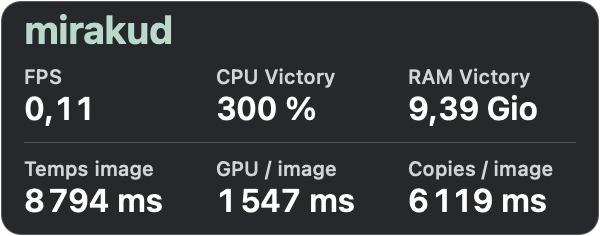
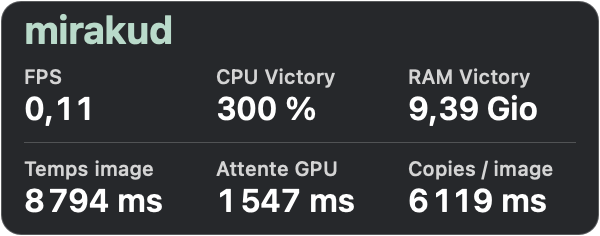
Préciser le temps d’attente de la clôture GPU dans l’encart

Changed region(s): [[0.36, 0.6822, 0.57, 0.7712]]

diff --git a/tools/macos/victory_perf_hud.swift b/tools/macos/victory_perf_hud.swift
@@ -69,7 +69,7 @@ private final class MetricsView: NSView {
         }
         setAccessibilityElement(true)
         setAccessibilityRole(.group)
-        setAccessibilityLabel("mirakud, \(next.fps) FPS, CPU Victory \(next.cpu), RAM Victory \(next.ram), temps image \(next.frame), GPU par image \(next.gpu), copies par image \(next.copies)")
+        setAccessibilityLabel("mirakud, \(next.fps) FPS, CPU Victory \(next.cpu), RAM Victory \(next.ram), temps image \(next.frame), attente GPU par image \(next.gpu), copies par image \(next.copies)")
     }
 
     override func draw(_ dirtyRect: NSRect) {
@@ -98,7 +98,7 @@ private final class MetricsView: NSView {
         metric("CPU Victory", values.cpu, x: 108, y: 32)
         metric("RAM Victory", values.ram, x: 204, y: 32)
         metric("Temps image", values.frame, x: 12, y: 78)
-        metric("GPU / image", values.gpu, x: 108, y: 78)
+        metric("Attente GPU", values.gpu, x: 108, y: 78)
         metric("Copies / image", values.copies, x: 204, y: 78)
     }
 }
@@ -254,7 +254,7 @@ private func selfTest(output: URL) throws {
     view.cacheDisplay(in: view.bounds, to: bitmap)
     guard let png = bitmap.representation(using: .png, properties: [:]) else { throw CocoaError(.fileWriteUnknown) }
     try png.write(to: output, options: .atomic)
-    print("mirakud | FPS \(values.fps) | CPU Victory \(values.cpu) | RAM Victory \(values.ram) | Image \(values.frame) | GPU \(values.gpu) | Copies \(values.copies) | \(bitmap.pixelsWide) × \(bitmap.pixelsHigh)")
+    print("mirakud | FPS \(values.fps) | CPU Victory \(values.cpu) | RAM Victory \(values.ram) | Image \(values.frame) | Attente GPU \(values.gpu) | Copies \(values.copies) | \(bitmap.pixelsWide) × \(bitmap.pixelsHigh)")
 }
 
 try MainActor.assumeIsolated {

diff --git a/README.md b/README.md
@@ -82,10 +82,10 @@ python3 tools/macos/run.py --perf-hud \
 | FPS et temps image | Les FPS valent 1 000 divisé par les millisecondes par image rapportées sur l’intervalle du journal. |
 | CPU Victory | 100 % correspond à un cœur occupé. 240 % correspond à environ 2,4 cœurs. |
 | RAM Victory | Empreinte physique du processus relevée par macOS. La garde utilise séparément la mémoire câblée de tout le système. |
-| GPU / image | Millisecondes par image passées sur le GPU selon les compteurs du moteur. |
-| Copies / image | Millisecondes par image de préparation des copies hôtes. Ces mesures couvrent des opérations du moteur dont certaines peuvent se chevaucher. |
+| Attente GPU | Temps écoulé côté hôte pendant l’attente de la clôture D3D12, en millisecondes par image. Le moteur mesure cette attente avec son horloge CPU. |
+| Copies / image | Temps hôte consacré à préparer les copies, en millisecondes par image. Ces mesures couvrent des opérations du moteur dont certaines peuvent se chevaucher. |
 
-Sur le démarrage de l’essai 202903, le panneau a reçu **21,14 FPS, 47,3 ms par image, 241,6 % de CPU et 3 730 Mio** pour Victory. Ce relevé valide l’affichage pendant le démarrage. La table des résultats plus haut décrit la rue. Plus tard dans le monde, un relevé affiche **0,11 FPS**, 9,39 Gio de RAM, 300 % de CPU, 8 794 ms par image, 1 547 ms de GPU et 6 119 ms de copies. L’image ci-dessous est le panneau rendu par AppKit à partir de ce relevé archivé. WindowServer a confirmé en jeu que le panneau se trouvait devant la fenêtre Victory, à 50 pixels des deux bords sur écran Retina.
+Sur le démarrage de l’essai 202903, le panneau a reçu **21,14 FPS, 47,3 ms par image, 241,6 % de CPU et 3 730 Mio** pour Victory. Ce relevé valide l’affichage pendant le démarrage. La table des résultats plus haut décrit la rue. Plus tard dans le monde, un relevé affiche **0,11 FPS**, 9,39 Gio de RAM, 300 % de CPU, 8 794 ms par image, 1 547 ms d’attente de clôture D3D12 et 6 119 ms de préparation des copies. L’image ci-dessous est le panneau rendu par AppKit à partir de ce relevé archivé. WindowServer a confirmé en jeu que le panneau se trouvait devant la fenêtre Victory, à 50 pixels des deux bords sur écran Retina.
 
 ![Encart AppKit réel rendu sur les mesures du monde, avec signature mirakud](docs/macos/encart-monde.png)
 
